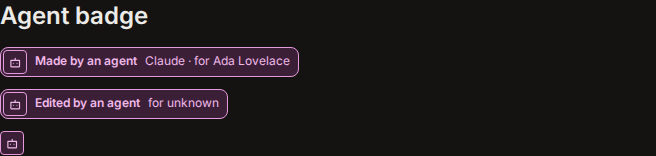
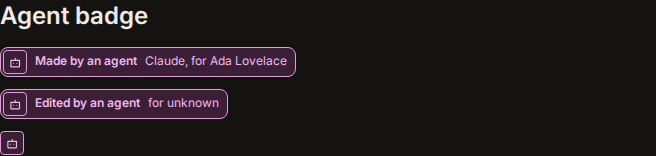
[DESIGN-15] Let a badge label be in any language
Drop the check that threw when a badge label had no English word agent.
It crashed a page for a label in another language. The square avatar and
the 'for' text stay, and the default label is English.

Test the badge border against the system color in forced colors. Load
the RTL toolbar test as a right-to-left page. Guard the title slot
against a stray 0. Use a comma in the badge text, not a dot.

Changed region(s): [[0.2744, 0.3077, 0.4573, 0.4872]]

diff --git a/e2e/chrome.ui.spec.ts b/e2e/chrome.ui.spec.ts
@@ -132,7 +132,7 @@ test("the badge says it in words and keeps the facts when only the avatar fits",
   await page.goto("/chrome");
   const badge = page.locator(".ad-agent-badge:not(.ad-agent-badge--compact)").first();
   await expect(badge).toContainText("Made by an agent");
-  await expect(badge).toContainText("Claude · for Ada Lovelace");
+  await expect(badge).toContainText("Claude, for Ada Lovelace");
   await expect(page.locator(".ad-agent-badge").nth(1)).toContainText("for unknown");
   const compact = page.locator(".ad-agent-badge--compact").getByRole("img");
   // The hostile name fails the allow-list, so the badge shows the generic name.
@@ -145,7 +145,16 @@ test("in forced colors the badge keeps its line and the title field keeps its fo
   await page.emulateMedia({ forcedColors: "active" });
   await page.goto("/chrome");
   const border = (selector: string) => page.locator(selector).first().evaluate((n) => getComputedStyle(n).borderTopColor);
-  expect(await border(".ad-agent-badge:not(.ad-agent-badge--compact)")).not.toBe("rgba(0, 0, 0, 0)");
+  const system = (color: string) => page.evaluate((c) => {
+    const probe = document.createElement("div");
+    probe.style.color = c;
+    document.body.append(probe);
+    const value = getComputedStyle(probe).color;
+    probe.remove();
+    return value;
+  }, color);
+  // The page border color is replaced by the system text color, so the badge keeps its line.
+  expect(await border(".ad-agent-badge:not(.ad-agent-badge--compact)")).toBe(await system("CanvasText"));
   await page.getByRole("button", { name: "Launch plan, rename" }).click();
   const outline = await page.getByRole("textbox", { name: "Document title" }).evaluate((n) => getComputedStyle(n).outlineStyle);
   expect(outline).not.toBe("none");
@@ -182,11 +191,15 @@ test("in a right-to-left page the panel moves to the start side", async ({ page 
 });
 
 test("in a right-to-left page the toolbar arrow keys follow the page direction", async ({ page }) => {
+  // The page is right-to-left from its first render, as a real RTL app is.
+  await page.addInitScript(() => {
+    const set = () => document.documentElement?.setAttribute("dir", "rtl");
+    set();
+    document.addEventListener("readystatechange", set);
+  });
   await page.goto("/chrome");
-  await page.evaluate(() => document.documentElement.setAttribute("dir", "rtl"));
+  await expect(page.locator("html")).toHaveAttribute("dir", "rtl");
   const toolbar = page.getByRole("toolbar", { name: "Editor tools" });
-  // The toolbar reads the page direction when it renders, so press a toggle to render it again.
-  await toolbar.getByRole("button", { name: "Bold" }).click();
   await toolbar.getByRole("button", { name: "Bold" }).focus();
   await page.keyboard.press("ArrowLeft");
   await expect(toolbar.getByRole("button", { name: "Italic" })).toBeFocused();

diff --git a/src/components/agent-badge.tsx b/src/components/agent-badge.tsx
@@ -7,7 +7,7 @@ export interface AgentBadgeProps {
   name?: string;
   /** The person the agent acts for. Shown as "unknown" when missing. */
   actingFor?: string;
-  /** The visible words. They must say "agent", for example "Edited by an agent". */
+  /** The visible words. Say what the agent did, in your language, for example "Edited by an agent". Say "agent" in it. */
   label?: string;
   /** Show only the square avatar. The same facts move into its accessible name. */
   compact?: boolean;
@@ -20,8 +20,6 @@ export interface AgentBadgeProps {
  * only signal. With `compact` there is room for the avatar only, and the facts sit in its name.
  */
 export function AgentBadge({ name, actingFor, label = "Made by an agent", compact = false, className }: AgentBadgeProps) {
-  // The word is the signal. A label without it would hide that an agent made the thing.
-  if (!/\bagents?\b/i.test(label)) throw new Error('An agent badge label must say "agent".');
   const agent = displayName({ name: name ?? "", kind: "agent" });
   const who = name === undefined ? null : agent;
   const owner = actingFor === undefined ? "unknown" : (usableName(actingFor) ?? "Unnamed person");
@@ -39,7 +37,7 @@ export function AgentBadge({ name, actingFor, label = "Made by an agent", compac
       <Avatar entry={entry} />
       <span className="ad-agent-badge__label">{label}</span>
       <span className="ad-agent-badge__meta">
-        {who && `${who} · `}for {owner}
+        {who && `${who}, `}for {owner}
       </span>
     </span>
   );

diff --git a/e2e/chrome.spec.ts b/e2e/chrome.spec.ts
@@ -33,13 +33,10 @@ test("a stored title that is long but safe is shown, and does not turn into Unti
   expect(html(createElement(DocumentTitle, { value: long, onRename: () => undefined }))).toContain(`${long}, rename`);
 });
 
-test("a badge label that does not say agent is refused", () => {
-  expect(() => html(createElement(AgentBadge, { label: "Draft" }))).toThrow('must say "agent"');
-});
-
-test("a badge label that has agent only inside another word is refused", () => {
-  for (const label of ["Approved by management", "Reagent list"]) expect(() => html(createElement(AgentBadge, { label }))).toThrow('must say "agent"');
-  expect(html(createElement(AgentBadge, { label: "Edited by agents" }))).toContain("Edited by agents");
+test("a badge label in another language is shown as given, and does not crash the page", () => {
+  const out = html(createElement(AgentBadge, { label: "Von einem Agenten erstellt", name: "Claude" }));
+  expect(out).toContain("Von einem Agenten erstellt");
+  expect(html(createElement(AgentBadge, { label: "\u0623\u0646\u0634\u0623\u0647 \u0648\u0643\u064A\u0644" }))).toContain("for unknown");
 });
 
 test("a panel that is false or null draws no panel, and no label is needed", () => {

diff --git a/src/components/toolbar.tsx b/src/components/toolbar.tsx
@@ -4,7 +4,7 @@ import { MoreIcon } from "../icons.js";
 import { IconButton, type IconButtonProps } from "./button.js";
 import { Menu, type MenuItem } from "./overlays.js";
 
-/** One tab stop. Arrow keys, Home, and End move inside it. */
+/** One tab stop. Arrow keys, Home, and End move inside it. It reads the page direction when it renders, so render it again after the page direction changes. */
 export function Toolbar({ label, children, dir }: { label: string; children: ReactNode; dir?: "ltr" | "rtl" }) {
   // Arrow keys follow the page direction. Pass `dir` to override what the page says.
   const direction = dir ?? (typeof document !== "undefined" && document.documentElement.dir === "rtl" ? "rtl" : "ltr");

diff --git a/src/components/shell.tsx b/src/components/shell.tsx
@@ -94,7 +94,7 @@ export function AppShell({ brand, sidebar, title, topbar, panel, panelLabel, chi
           setOpen((v) => !v);
         }}
       />
-      {title && <div className="ad-shell__title">{title}</div>}
+      {title !== undefined && title !== null && title !== false && <div className="ad-shell__title">{title}</div>}
       <div className="ad-shell__actions">{topbar}</div>
     </header>
   );
